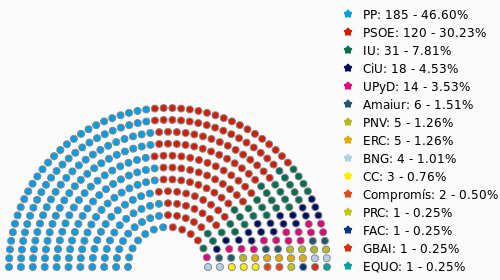
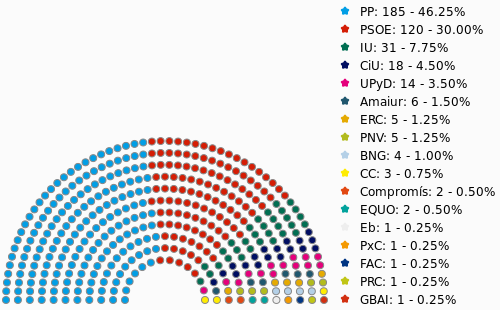
Faltaban tres escaños en la reforma 1, causado por uso de Hare en combinación con el mínimo del 3%

Changed region(s): [[0.0, 0.3714, 1.0, 1.0], [0.66, 0.0, 0.99, 0.4571]]

diff --git a/web/js/le2011.js b/web/js/le2011.js
@@ -467,10 +467,15 @@ $(document).ready(function(){
                     });
                     var minval = total*0.03;
                     var parties = _.reject(prov.rows, function(row) {
-                        return row.get("amount") < minval || row.get("statistical") === true;
+                        return  row.get("amount") < minval || row.get("statistical") === true;
+                    });
+                    var rejectedparties = _.reject(prov.rows, function(row) {
+                        return  !(row.get("amount") < minval || row.get("statistical") === true);
                     });
                     var quota = Math.floor(total/circunscripciones1[prov.get('provincia')]);
+                    //console.log("Quota"+quota);
                     var possiblepar = [];
+                    var possiblerejectedpar = [];
                     var assigned = 0;
                     _.each(parties, function(party){
                         if (!party.get("statistical")) {
@@ -497,6 +502,24 @@ $(document).ready(function(){
                     possiblepar = _.sortBy(possiblepar, function(res) {
                         return res["value"];
                     }).reverse();
+                    
+                    _.each(rejectedparties, function(party){
+                        if (!party.get("statistical")) {
+
+                            possiblerejectedpar.push({
+                                value: party.get("amount") % quota,
+                                color: party.get('color'),
+                                oid  : party.get('oid'),
+                                label: party.get('label'),
+                            });
+
+                        }
+                    });
+                    possiblerejectedpar = _.sortBy(possiblerejectedpar, function(res) {
+                        return res["value"];
+                    }).reverse();
+
+                    var missingseats = 0;
 
                     for (var i = 0; i < circunscripciones1[prov.get('provincia')] -assigned; i++) {
                         if(possiblepar[i]){
@@ -505,9 +528,29 @@ $(document).ready(function(){
                             color: possiblepar[i]['color'],
                             oid  : possiblepar[i]['oid'],
                             label: possiblepar[i]['label'],
-                        });
+                            });
+                        }else{
+                            missingseats = missingseats + 1;
+                            console.log(possiblepar);
+                            console.log(i);
+                            console.log(prov.get('provincia'));
+                            console.log(circunscripciones1[prov.get('provincia')] -assigned);
+                            console.log(circunscripciones1[prov.get('provincia')]);
+                            console.log("Assigned"+assigned);
+                        }
                     }
-                    }
+                    //Hay veces en las que, al combinar el mínimo del 3% con el método de Hare, resulta que después de repartir los escaños enteros (votosPartido/coutaHare) y los no enteros (un escaño más a cada partido, por los votos "restantes"), aún queda algún escaño por repartir, así que se los damos a los partidos más votados de entre los que en principio habían sido descartados por no llegar al 3%. Esta situación puede pasar en provincias grandes (el 3% son bastantes votos) si muchos votos han ido a partidos minoritarios. En 2011 se perdían 2 escaños por Barcelona y uno por Madrid. Otra posibilidad sería quitar el 3% desde el principio, pero parece más fácil que entonces se pueda dar el caso de que entre un partido con pocos votos consiga escaños (Ciutadans, por ejemplo, entraría por Barcelona en 2008, con 24.000 votos, siendo la cuota de 90.000).
+                        if(missingseats != 0){
+                            for (var j = 0; j < missingseats; j++) {
+                                console.log(possiblerejectedpar[j]);
+                                electedseats.push({
+                                value: possiblerejectedpar[j]['value'],
+                                color: possiblerejectedpar[j]['color'],
+                                oid  : possiblerejectedpar[j]['oid'],
+                                label: possiblerejectedpar[j]['label'],
+                                });
+                            }
+                        }
                 }
             });
 
@@ -1153,7 +1196,8 @@ $(document).ready(function(){
             $('#reform1').hide('fast', function(){
                 $('html, body').animate({scrollTop: $(document).height()}, 3000);
                 $('#reform1').html(ContentStore.getByKey("reforma1-2011").get("value")).fadeIn(500, function(){
-                    that.parliament2 = that.paper.image("imgs/parliament2-2011.png", 450, 670, 500, 280);
+                    that.parliament2 = that.paper.image("imgs/parliament2-2011.png", 450, 670, 500, 310);
+                    //that.parliament2 = that.paper.g.parliament(620, 930, 180, 40, that.parvalues2, {}, 1.2125, 3.5);
                     $('#reform1conclusions').html(ContentStore.getByKey("reforma1conclusions2011").get("value")).fadeIn(1500);
                 });
             });
@@ -1190,12 +1234,12 @@ $(document).ready(function(){
             $('#reform2').hide('fast', function(){
                 $('html, body').animate({scrollTop: $(document).height()}, 3000);
                 $('#reform2').html(ContentStore.getByKey("reforma2-2011").get("value")).fadeIn(500, function(){
-                    that.parliament3 = that.paper.image("imgs/parliament3-2011.png", 450, 1130, 500, 280);
+                    that.parliament3 = that.paper.image("imgs/parliament3-2011.png", 450, 1140, 500, 280);
                     $('#reform2conclusions').html(ContentStore.getByKey("reforma2conclusions2011").get("value")).fadeIn(1500);
                 });
             });
             this.parliament = this.paper.image("imgs/parliament1-2011.png", 450, 263, 500, 245);
-            this.parliament2 = this.paper.image("imgs/parliament2-2011.png", 450, 670, 500, 280);
+            this.parliament2 = this.paper.image("imgs/parliament2-2011.png", 450, 670, 500, 310);
 
             this.advance = function(){ return AppRouter.navigate("!reformaelectoral3", true);};
             this.goback = function(){ return AppRouter.navigate("!reformaelectoral1", true);};
@@ -1243,8 +1287,8 @@ $(document).ready(function(){
                 });
             });
             this.parliament = this.paper.image("imgs/parliament1-2011.png", 450, 263, 500, 245);
-            this.parliament2 = this.paper.image("imgs/parliament2-2011.png", 450, 670, 500, 280);
-            this.parliament3 = this.paper.image("imgs/parliament3-2011.png", 450, 1130, 500, 280);
+            this.parliament2 = this.paper.image("imgs/parliament2-2011.png", 450, 670, 500, 310);
+            this.parliament3 = this.paper.image("imgs/parliament3-2011.png", 450, 1140, 500, 280);
 
             this.advance = function(){ return AppRouter.navigate("!circunscripcionunica", true);};
             this.goback = function(){ return AppRouter.navigate("!reformaelectoral2", true);};
@@ -1289,8 +1333,8 @@ $(document).ready(function(){
                 });
             });
             this.parliament = this.paper.image("imgs/parliament1-2011.png", 450, 263, 500, 245);
-            this.parliament2 = this.paper.image("imgs/parliament2-2011.png", 450, 670, 500, 280);
-            this.parliament3 = this.paper.image("imgs/parliament3-2011.png", 450, 1130, 500, 280);
+            this.parliament2 = this.paper.image("imgs/parliament2-2011.png", 450, 670, 500, 310);
+            this.parliament3 = this.paper.image("imgs/parliament3-2011.png", 450, 1140, 500, 280);
             this.parliament4 = this.paper.image("imgs/parliament4-2011.png", 450, 1605, 500, 315);
 
             this.advance = function(){ return AppRouter.navigate("!conclusiones", true);};
@@ -1335,9 +1379,13 @@ $(document).ready(function(){
                 $('#conclusions').html(ContentStore.getByKey("finalconclusions").get("value")).fadeIn(500);
             });
             this.parliament = this.paper.image("imgs/parliament1-2011.png", 450, 263, 500, 245);
-            this.parliament2 = this.paper.image("imgs/parliament2-2011.png", 450, 670, 500, 280);
-            this.parliament3 = this.paper.image("imgs/parliament3-2011.png", 450, 1130, 500, 280);
+            //this.parliament1 = this.paper.g.parliament(620, 550, 180, 40, this.parvalues, {}, 1.3796875000000002, 3.5);
+            this.parliament2 = this.paper.image("imgs/parliament2-2011.png", 450, 670, 500, 310);
+            //this.parliament2 = this.paper.g.parliament(620, 950, 180, 40, this.parvalues2, {}, 1.2125, 3.5);
+            this.parliament3 = this.paper.image("imgs/parliament3-2011.png", 450, 1140, 500, 280);
+            //this.parliament3 = this.paper.g.parliament(620, 1450, 180, 40, this.parvalues3, {}, 1.2125, 3.5);
             this.parliament4 = this.paper.image("imgs/parliament4-2011.png", 450, 1605, 500, 315);
+            //this.parliament4 = this.paper.g.parliament(620, 2000, 180, 40, this.parvalues4, {}, 1.2125, 3.5);
             this.parliament5 = this.paper.image("imgs/parliament5-2011.png", 450, 2210, 500, 315);
             //this.parliament5 = this.paper.g.parliament(620, 2500, 180, 40, this.parvalues5, {}, 1.2125, 3.5);
 

diff --git a/web/js/le.js b/web/js/le.js
@@ -1093,6 +1093,7 @@ $(document).ready(function(){
                 $('html, body').animate({scrollTop: $(document).height()}, 3000);
                 $('#reform1').html(ContentStore.getByKey("reforma1").get("value")).fadeIn(500, function(){
                     that.parliament2 = that.paper.image("imgs/parliament2.png", 450, 620, 500, 269);
+                    //that.parliament2 = that.paper.g.parliament(620, 930, 180, 40, that.parvalues2, {}, 1.2125, 3.5);
                     $('#reform1conclusions').html(ContentStore.getByKey("reforma1conclusions").get("value")).fadeIn(1500);
                 });
             });

diff --git a/loader2011.php b/loader2011.php
@@ -19,6 +19,10 @@ if (($handle = fopen("2011.csv", "r")) !== FALSE) {
     $num = count($data);
     $provincia_num = null;
     $rows_counter = 0;
+    //$totalprovincia = 0;
+    //$totalespana = 0;
+    //$totalnulos = 0;
+    //$totalblancos = 0;
     $partidos = array();
     for ($c=0; $c < $num; $c++) {
         $partidos[$c] = normalize(trim($data[$c]));
@@ -29,6 +33,14 @@ if (($handle = fopen("2011.csv", "r")) !== FALSE) {
         $row++;
         //echo $rows_counter." ".$provincia_num." ".trim($data[1])."\n";
         if($provincia_num != trim($data[1])){
+        //Primera línea nueva provincia (censo)
+            //$totalprovincia = $totalprovincia + $result['VBlanco'] + $result['VNulos'];
+            //echo "Total ".$result['Provincia']." ".$totalprovincia."\n";
+            //$totalespana = $totalespana + $totalprovincia;
+            //$totalnulos = $totalnulos + $result['VNulos'];
+            //$totalblancos = $totalblancos + $result['VBlanco'];
+            //echo "Total España"." ".$totalespana." ".$totalnulos." ".$totalblancos."\n";
+            //$totalprovincia = 0;
             $rows_counter = 0;
             $provincia_num = trim($data[1]);
             $result = array(
@@ -50,6 +62,7 @@ if (($handle = fopen("2011.csv", "r")) !== FALSE) {
             //echo $result['Provincia'].",\n";
             $rows_counter++;
         }else{
+        //Líneas datos genéricos
             if($rows_counter == 1){
                 $result['Votantes'] = trim($data[4]);
             }else if($rows_counter == 2){
@@ -60,6 +73,7 @@ if (($handle = fopen("2011.csv", "r")) !== FALSE) {
                 $result['VBlanco'] = trim($data[4]);
                 $provincias[$result['Provincia']] = unserialize(serialize($result));
             }else{
+            //Líneas datos partidos
                 $provincias[$result['Provincia']]['Población'] = null;
                 $provincias[$result['Provincia']]['Mesas'] = null;
                 $provincias[$result['Provincia']]['Censo'] = $result['Censo'];
@@ -83,6 +97,7 @@ if (($handle = fopen("2011.csv", "r")) !== FALSE) {
                 //echo $result['VBlanco'].",\n";
                 //echo "PP: ".$result['partido-popular-pp'].",\n";
                 //echo "UPyD: ".$result['uni-oacute-n-progreso-y-democracia-upyd'].",\n";
+                $totalprovincia = $totalprovincia + $result[$partido];
             }
             $rows_counter++;
         }
@@ -91,11 +106,15 @@ if (($handle = fopen("2011.csv", "r")) !== FALSE) {
     foreach ($provincias as $provincia) {
         $collection = $db->provincias2011;
         $collection->save($provincia);
-        echo $provincia['Provincia']."\n";
+        //echo $provincia['Provincia']."\n";
 
         //$totalpp = 0;
         //$totalpsoe = 0;
         //$totaliu = 0;
+        //$totalupyd = 0;
+        //$totalequo = 0;
+        //$totalpacma = 0;
+        //$totaleb = 0;
         //$totalupyd = $totalpp + $provincia['partido-popular-pp'];
         //echo $provincia['Provincia']." PP: ".$provincia['partido-popular-pp']." ".$totalpp."\n";
         //$totalpsoe = $totalpsoe + $provincia['partido-socialista-obrero-espa-ol-psoe'];
@@ -111,6 +130,14 @@ if (($handle = fopen("2011.csv", "r")) !== FALSE) {
         //if(isset($provincia['equo-equo'])){
         //    $totalupyd = $totalupyd + $provincia['equo-equo'];
         //    echo $provincia['Provincia']." EQUO: ".$provincia['equo-equo']." ".$totalupyd."\n";
+        //}
+        //if(isset($provincia['partido-animalista-pacma'])){
+        //    $totalpacma = $totalpacma + $provincia['partido-animalista-pacma'];
+        //    echo $provincia['Provincia']." PACMA: ".$provincia['partido-animalista-pacma']." ".$totalpacma."\n";
+        //}
+        //if(isset($provincia['esca-os-en-blanco-eb'])){
+        //    $totaleb = $totaleb + $provincia['esca-os-en-blanco-eb'];
+        //    echo $provincia['Provincia']." Eb: ".$provincia['esca-os-en-blanco-eb']." ".$totaleb."\n";
         //}
     }
     fclose($handle);

diff --git a/content/short/reforma1-2011.md b/content/short/reforma1-2011.md
@@ -10,34 +10,38 @@ Propuesta de reforma 1
 <table style="margin: 5px 10px;">
 <tr>
 <td style="padding-left: 30px;"> PP      </td> <td style="font-weight: bold; text-align: right; padding: 0 10px;"> 58.544 </td>
-<td style="padding-left: 30px;"> BNG     </td> <td style="font-weight: bold; text-align: right; padding: 0 10px;"> 45.819 </td>
-</tr>
-<tr>
-<td style="padding-left: 30px;"> PSOE    </td> <td style="font-weight: bold; text-align: right; padding: 0 10px;"> 58.116 </td> 
 <td style="padding-left: 30px;"> CC  </td> <td style="font-weight: bold; text-align: right; padding: 0 10px;"> 47.850 </td>
 </tr>
 <tr>
-<td style="padding-left: 30px;"> IU      </td> <td style="font-weight: bold; text-align: right; padding: 0 10px;"> 54.220 </td>
+<td style="padding-left: 30px;"> PSOE    </td> <td style="font-weight: bold; text-align: right; padding: 0 10px;"> 58.116 </td> 
 <td style="padding-left: 30px;"> Compromís    </td> <td style="font-weight: bold; text-align: right; padding: 0 10px;"> 62.575 </td>
 </tr>
 <tr>
+<td style="padding-left: 30px;"> IU      </td> <td style="font-weight: bold; text-align: right; padding: 0 10px;"> 54.220 </td>
+<td style="padding-left: 30px;"> EQUO     </td> <td style="font-weight: bold; text-align: right; padding: 0 10px;"> 107.888 </td>
+</tr>
+<tr>
 <td style="padding-left: 30px;"> CiU     </td> <td style="font-weight: bold; text-align: right; padding: 0 10px;"> 56.347 </td>
-<td style="padding-left: 30px;"> PRC     </td> <td style="font-weight: bold; text-align: right; padding: 0 10px;"> 43.903 </td>
+<td style="padding-left: 30px;"> Eb     </td> <td style="font-weight: bold; text-align: right; padding: 0 10px;"> 97.706 </td>
 </tr>
 <tr>
 <td style="padding-left: 30px;"> UPyD    </td> <td style="font-weight: bold; text-align: right; padding: 0 10px;"> 81.446 </td>
-<td style="padding-left: 30px;"> FAC    </td> <td style="font-weight: bold; text-align: right; padding: 0 10px;"> 99.173 </td>
+<td style="padding-left: 30px;"> PxC    </td> <td style="font-weight: bold; text-align: right; padding: 0 10px;"> 59.781 </td>
 </tr>
 <tr>
 <td style="padding-left: 30px;"> Amaiur    </td> <td style="font-weight: bold; text-align: right; padding: 0 10px;"> 55.605 </td>
-<td style="padding-left: 30px;"> GBAI </td> <td style="font-weight: bold; text-align: right; padding: 0 10px;"> 42.411 </td>
-</tr>
-<tr>
-<td style="padding-left: 30px;"> PNV </td> <td style="font-weight: bold; text-align: right; padding: 0 10px;"> 64.703 </td>
-<td style="padding-left: 30px;"> EQUO     </td> <td style="font-weight: bold; text-align: right; padding: 0 10px;"> 215.776 </td>
+<td style="padding-left: 30px;"> FAC    </td> <td style="font-weight: bold; text-align: right; padding: 0 10px;"> 99.173 </td>
 </tr>
 <tr>
 <td style="padding-left: 30px;"> ERC     </td> <td style="font-weight: bold; text-align: right; padding: 0 10px;"> 51.279 </td>
+<td style="padding-left: 30px;"> PRC     </td> <td style="font-weight: bold; text-align: right; padding: 0 10px;"> 43.903 </td>
+</tr>
+<tr>
+<td style="padding-left: 30px;"> PNV </td> <td style="font-weight: bold; text-align: right; padding: 0 10px;"> 64.703 </td>
+<td style="padding-left: 30px;"> GBAI </td> <td style="font-weight: bold; text-align: right; padding: 0 10px;"> 42.411 </td>
+</tr>
+<tr>
+<td style="padding-left: 30px;"> BNG     </td> <td style="font-weight: bold; text-align: right; padding: 0 10px;"> 45.819 </td>
 </tr>
 </table>
 </div>

diff --git a/content/short/reforma3-2011.md b/content/short/reforma3-2011.md
@@ -10,11 +10,11 @@ Propuesta de reforma 3
 <table style="margin: 5px 10px;">
 <tr>
 <td style="padding-left: 30px;"> PP      </td> <td style="font-weight: bold; text-align: right; padding: 0 10px;"> 53.884 </td>
-<td style="padding-left: 30px;"> CC  </td> <td style="font-weight: bold; text-align: right; padding: 0 10px;"> 71.775 </td>
+<td style="padding-left: 30px;"> BNG     </td> <td style="font-weight: bold; text-align: right; padding: 0 10px;"> 91.640 </td>
 </tr>
 <tr>
 <td style="padding-left: 30px;"> PSOE    </td> <td style="font-weight: bold; text-align: right; padding: 0 10px;"> 63.399 </td> 
-<td style="padding-left: 30px;"> BNG     </td> <td style="font-weight: bold; text-align: right; padding: 0 10px;"> 91.640 </td>
+<td style="padding-left: 30px;"> CC  </td> <td style="font-weight: bold; text-align: right; padding: 0 10px;"> 71.775 </td>
 </tr>
 <tr>
 <td style="padding-left: 30px;"> IU      </td> <td style="font-weight: bold; text-align: right; padding: 0 10px;"> 64.647 </td>
@@ -22,11 +22,11 @@ Propuesta de reforma 3
 </tr>
 <tr>
 <td style="padding-left: 30px;"> UPyD    </td> <td style="font-weight: bold; text-align: right; padding: 0 10px;"> 67.073 </td>
-<td style="padding-left: 30px;"> PACMA    </td> <td style="font-weight: bold; text-align: right; padding: 0 10px;"> 101.557 </td>
+<td style="padding-left: 30px;"> Eb     </td> <td style="font-weight: bold; text-align: right; padding: 0 10px;"> 97.706 </td>
 </tr>
 <tr>
 <td style="padding-left: 30px;"> CiU     </td> <td style="font-weight: bold; text-align: right; padding: 0 10px;"> 59.663 </td>
-<td style="padding-left: 30px;"> Eb     </td> <td style="font-weight: bold; text-align: right; padding: 0 10px;"> 97.706 </td>
+<td style="padding-left: 30px;"> PACMA    </td> <td style="font-weight: bold; text-align: right; padding: 0 10px;"> 101.557 </td>
 </tr>
 <tr>
 <td style="padding-left: 30px;"> Amaiur    </td> <td style="font-weight: bold; text-align: right; padding: 0 10px;"> 47.661 </td>

diff --git a/content/short/reforma2-2011.md b/content/short/reforma2-2011.md
@@ -9,7 +9,7 @@ Propuesta de reforma 2
 <table style="margin: 5px 10px;">
 <tr>
 <td style="padding-left: 30px;"> PP      </td> <td style="font-weight: bold; text-align: right; padding: 0 10px;"> 53.617 </td>
-<td style="padding-left: 30px;"> CC  </td> <td style="font-weight: bold; text-align: right; padding: 0 10px;"> 71.775 </td>
+<td style="padding-left: 30px;"> ERC     </td> <td style="font-weight: bold; text-align: right; padding: 0 10px;"> 64.098 </td>
 </tr>
 <tr>
 <td style="padding-left: 30px;"> PSOE    </td> <td style="font-weight: bold; text-align: right; padding: 0 10px;"> 55.791 </td> 
@@ -17,7 +17,7 @@ Propuesta de reforma 2
 </tr>
 <tr>
 <td style="padding-left: 30px;"> IU      </td> <td style="font-weight: bold; text-align: right; padding: 0 10px;"> 84.041 </td>
-<td style="padding-left: 30px;"> Eb     </td> <td style="font-weight: bold; text-align: right; padding: 0 10px;"> 97.706 </td>
+<td style="padding-left: 30px;"> CC  </td> <td style="font-weight: bold; text-align: right; padding: 0 10px;"> 71.775 </td>
 </tr>
 <tr>
 <td style="padding-left: 30px;"> CiU     </td> <td style="font-weight: bold; text-align: right; padding: 0 10px;"> 59.663 </td>
@@ -34,9 +34,6 @@ Propuesta de reforma 2
 <tr>
 <td style="padding-left: 30px;"> PNV </td> <td style="font-weight: bold; text-align: right; padding: 0 10px;"> 64.703 </td>
 <td style="padding-left: 30px;"> GBAI </td> <td style="font-weight: bold; text-align: right; padding: 0 10px;"> 42.411 </td>
-</tr>
-<tr>
-<td style="padding-left: 30px;"> ERC     </td> <td style="font-weight: bold; text-align: right; padding: 0 10px;"> 64.098 </td>
 </tr>
 </table>
 </div>

diff --git a/content/short/reforma3conclusions2011.md b/content/short/reforma3conclusions2011.md
@@ -1,1 +1,1 @@
-Las desigualdades en el precio del escaño son muy pequeñas comparadas con las de nuestro sistema actual. Entran PA y PACMA en el congreso (carecían de representación pese a tener muchos más votos que GBAI). Por primera vez a EQUO le cuesta el escaño algo semejante al resto de partidos.
+Las desigualdades en el precio del escaño son muy pequeñas comparadas con las de nuestro sistema actual. Además de EQUO, entran PACMA, Escaños en blanco y PA en el congreso -en el sistema actual carecen de representación pese cerca del doble de votos que GBAI-.

diff --git a/content/short/reforma1conclusions2011.md b/content/short/reforma1conclusions2011.md
@@ -1,1 +1,1 @@
-Las oscilaciones en el precio del escaño disminuyen. EQUO, que en el sistema actual no tiene escaño a pasar de contar con 215.000 votos, entra en el congreso. El PP no llega a la mayoría absoluta.
+Las oscilaciones en el precio del escaño disminuyen notablemente. Entra EQUO en el congreso -actualmente no tiene escaño a pasar de contar con 215.000 votos-. Entran, además, "Escaños en blanco", PRC y PxC. El PP no llega a la mayoría absoluta.

diff --git a/content/short/reforma2conclusions2011.md b/content/short/reforma2conclusions2011.md
@@ -1,1 +1,1 @@
-La oscilación del precio del escaño es semejante a la de la propuesta 1. En lugar de PRC, entra "Escaños en blanco" en el congreso, que posee cerca del doble de votos. El PP obtiene mayoría absoluta, como en el sistema actual.
+Los resultados son semejantes a los del sistema actual, pero se corrigen en parte las principales deficiencias de este: la ausencia de EQUO y el precio del escaño de IU y UPyD.
